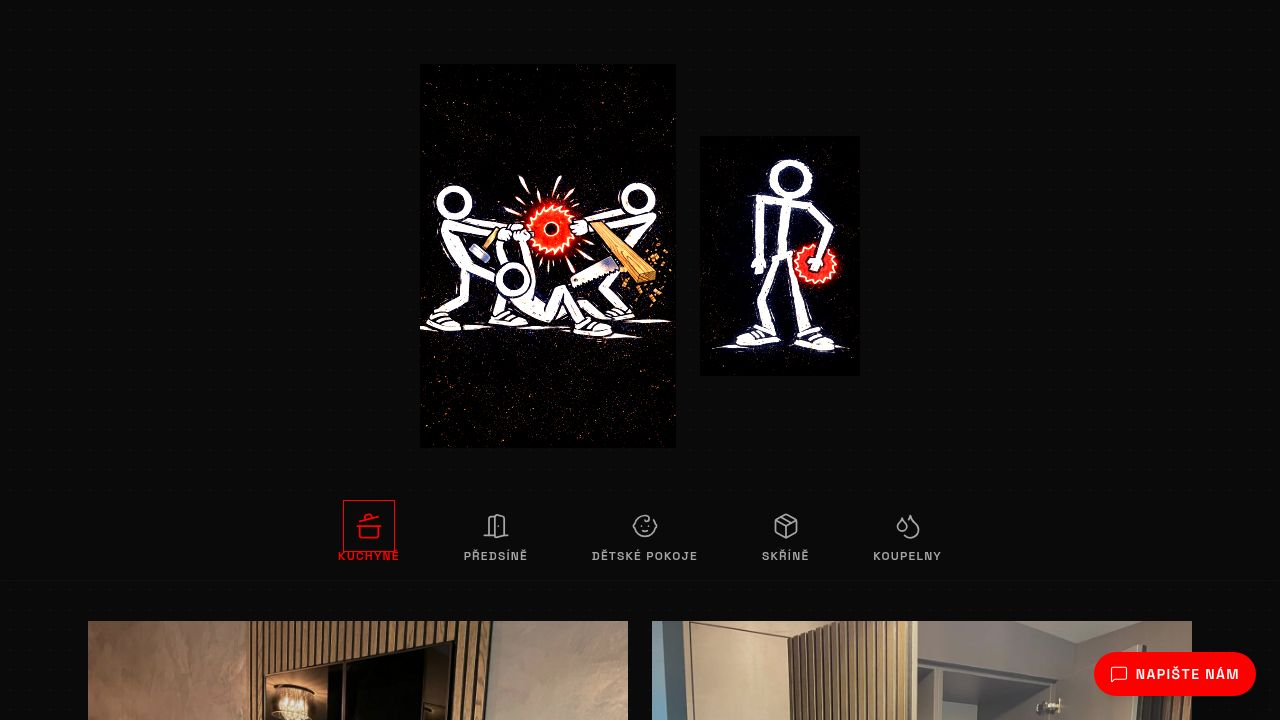
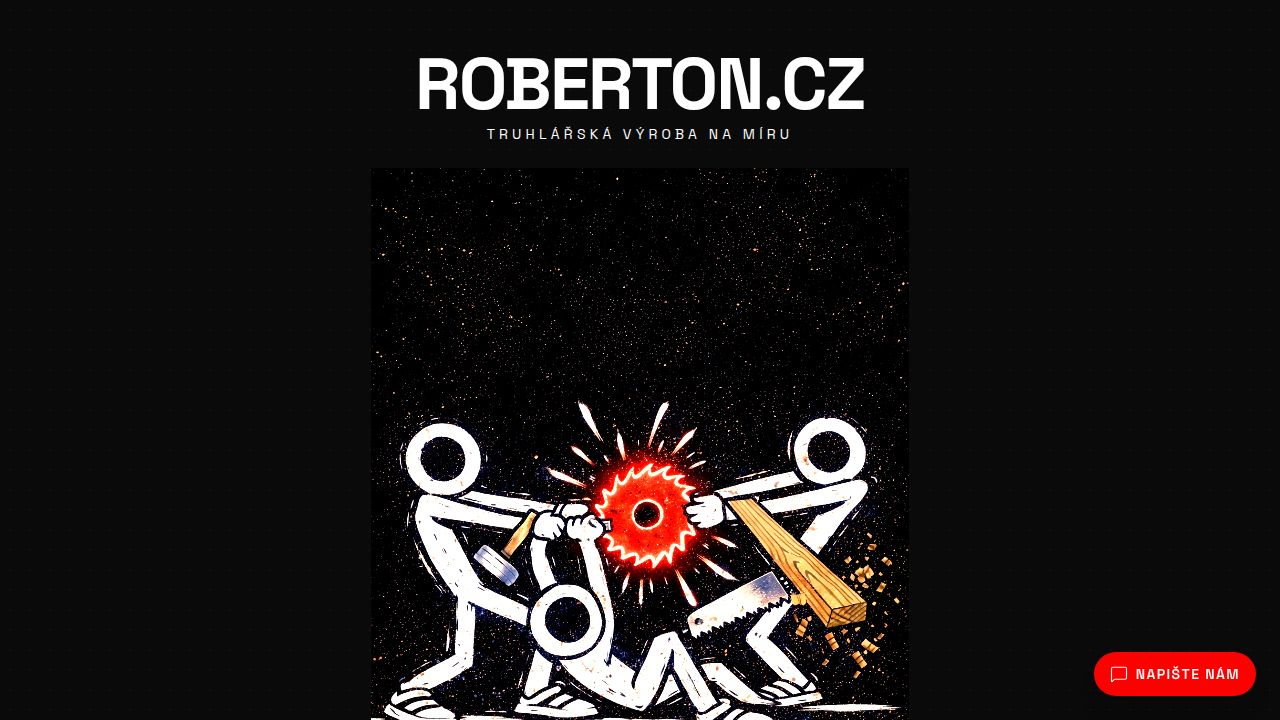
Update website layout and footer images
Modify App.tsx to remove one header image, adjust the size and orientation of footer images.

Replit-Commit-Author: Agent
Replit-Commit-Session-Id: 565ba464-6043-4684-b660-5e6c25a2803b
Replit-Commit-Checkpoint-Type: full_checkpoint
Replit-Commit-Event-Id: 51280d46-32ae-4abb-91e6-64c18a561163
Replit-Commit-Screenshot-Url: https://storage.googleapis.com/screenshot-production-us-central1/9e984159-c20e-4a9b-a748-91a8a7865a03/565ba464-6043-4684-b660-5e6c25a2803b/LbeR75E
Replit-Helium-Checkpoint-Created: true

Changed region(s): [[0.0625, 0.55, 0.9375, 1.0], [0.3125, 0.0611, 0.6875, 0.4889], [0.3125, 0.2444, 0.5312, 0.4889]]

diff --git a/artifacts/borcovna/src/App.tsx b/artifacts/borcovna/src/App.tsx
@@ -89,12 +89,7 @@ function Home() {
           <img
             src={logoGroup}
             alt="Borcovna Logo"
-            className="w-48 md:w-64 object-contain brightness-110 contrast-125"
-          />
-          <img
-            src={logoSingle}
-            alt="Borcovna Logo Mark"
-            className="w-32 md:w-40 object-contain brightness-110 contrast-125 hidden md:block"
+            className="w-[72vw] max-w-2xl md:w-[42vw] md:max-w-4xl object-contain brightness-110 contrast-125"
           />
         </div>
       </header>
@@ -161,8 +156,8 @@ function Home() {
       </main>
 
       <footer className="w-full py-12 flex flex-col sm:flex-row justify-center items-center gap-6 sm:gap-10 border-t border-border/50">
-        <div className="flex items-center justify-end w-10 sm:w-14">
-          <img src={logoSingle} alt="Borcovna panáček" className="w-8 h-8 sm:w-10 sm:h-10 object-contain brightness-110 contrast-125 sm:scale-x-[-1]" />
+        <div className="flex items-center justify-end w-20 sm:w-24">
+          <img src={logoSingle} alt="Borcovna panáček" className="w-16 h-16 sm:w-20 sm:h-20 object-contain brightness-110 contrast-125 sm:scale-x-[-1]" />
         </div>
         <a
           href="mailto:borcovna@roberton.cz"
@@ -179,8 +174,8 @@ function Home() {
           <Phone size={14} strokeWidth={1.5} />
           606 836 630
         </a>
-        <div className="flex items-center justify-start w-10 sm:w-14">
-          <img src={logoSingle} alt="Borcovna panáček" className="w-8 h-8 sm:w-10 sm:h-10 object-contain brightness-110 contrast-125 sm:scale-x-[-1]" />
+        <div className="flex items-center justify-start w-20 sm:w-24">
+          <img src={logoSingle} alt="Borcovna panáček" className="w-16 h-16 sm:w-20 sm:h-20 object-contain brightness-110 contrast-125" />
         </div>
       </footer>
 
@@ -282,7 +277,7 @@ function App() {
   return (
     <QueryClientProvider client={queryClient}>
       <TooltipProvider>
-        <WouterRouter base={import.meta.env.BASE_URL.replace(/\/$/, "")}> 
+        <WouterRouter base={import.meta.env.BASE_URL.replace(/\/$/, "")}>
           <Router />
         </WouterRouter>
         <Toaster />
